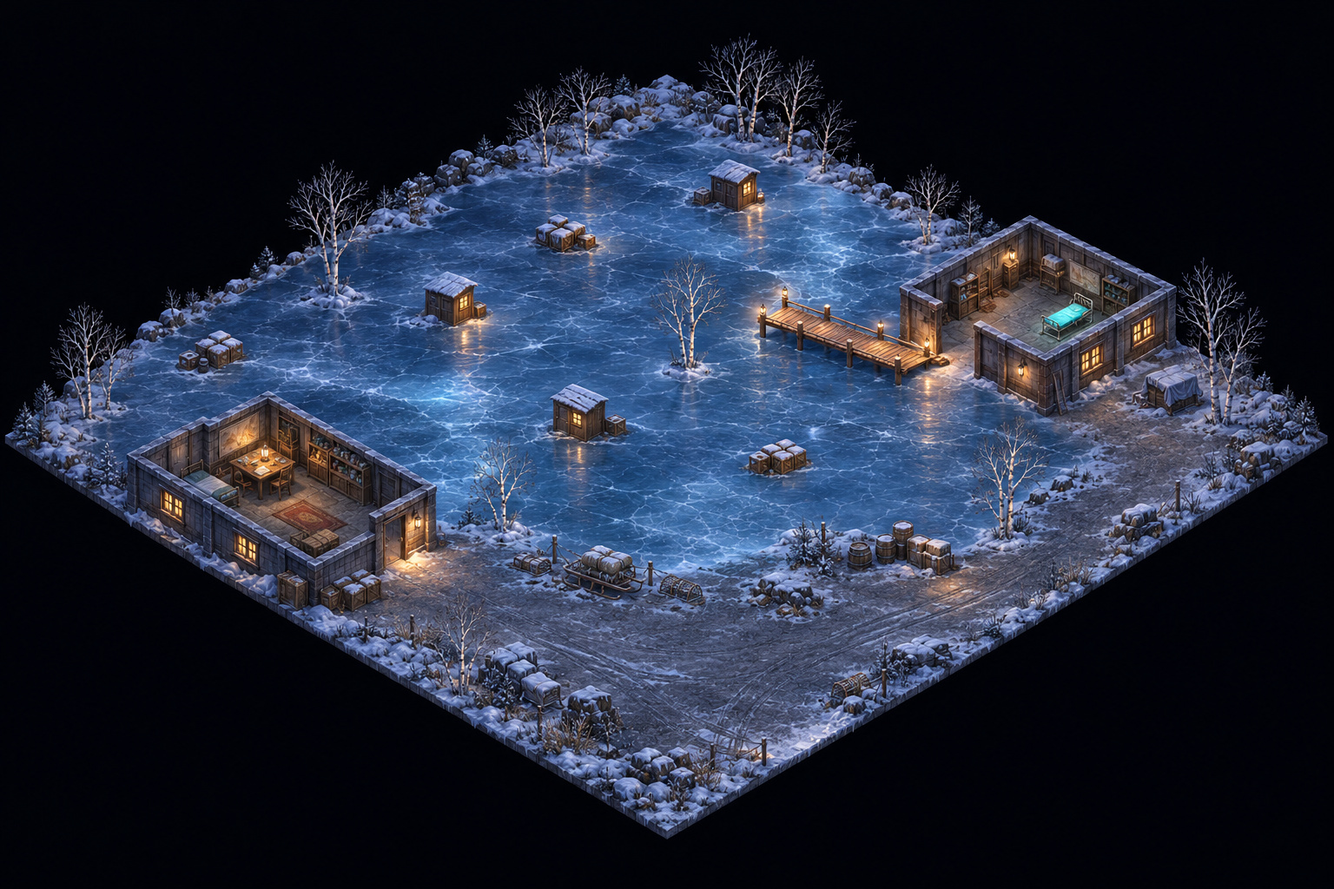
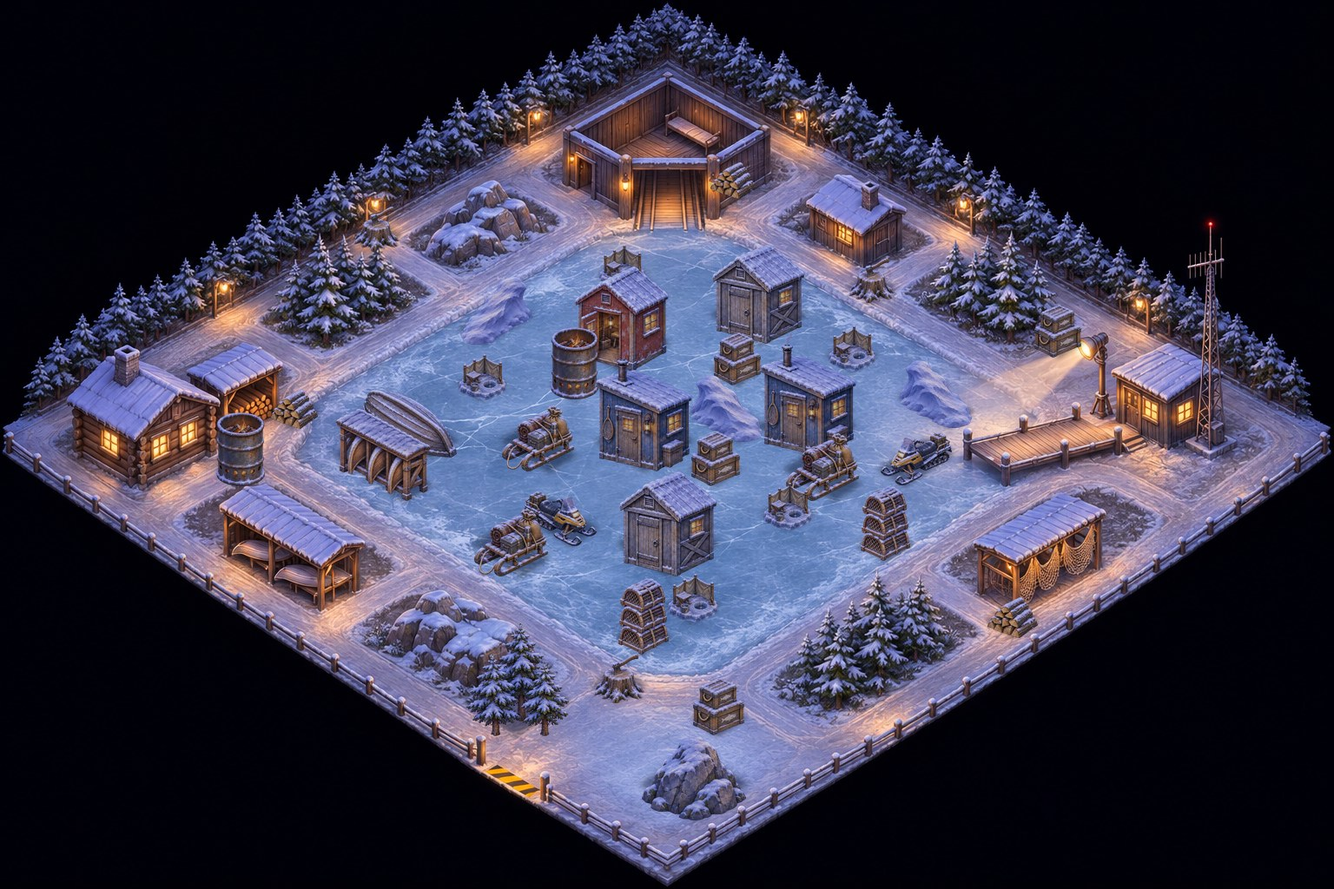
v0.29.0: Bloody Christmas stage 3 rebuilt on v3 design (frozen lake, ice huts, sniped antenna, escort)
Claude-Session: https://claude.ai/code/session_01YWSFXRBaK3zkDDX76dUHdx

diff --git a/public/index.html b/public/index.html
@@ -775,7 +775,7 @@ Object.keys(STORY).forEach(function(id){
     m.bc=['nokill','noinv','noload'][ci];m.story={id:id,ci:ci};SIDX[id].push(MIS.length);MIS.push(m);
   });
 });
-var VERSION='0.28.0';
+var VERSION='0.29.0';
 var PROG={c:{},s:{},b:{},end:{},g:{},n:{},pt:0,name:'',vol:1,all:false};
 try{var pj=JSON.parse(localStorage.getItem('s6prog')||'null');if(pj)for(var pk in pj)PROG[pk]=pj[pk];}catch(e){}
 function saveProg(){try{localStorage.setItem('s6prog',JSON.stringify(PROG));}catch(e){}}
@@ -914,10 +914,19 @@ var WINTER=[
    obj:[['santa','어머, 정말 터뜨렸네. 그럼 3분 줄게. 기차는 시간 맞춰 떠나거든.'],['glitch','브릭! 기관차가 움직여! 출구에 사람이 붙고 있어!',1],['brick','막히면 뚫으면 되지! 뒤로 붙어!',2]],
    end:[['glitch','잠깐만… 마켓에서 나온 종이랑 이 상자 걸 합치니까 풀려. 이거 암호가 아니라 사번이야.',2],['brick','사번? 누구 건데.',0],['glitch','…우리 거. 6과 사번이야. 언니 것도 있어.',1],['brick','뭐? 지난번에 팔린 명단은 절반이라며.',1],['glitch','응. 이게 나머지 절반이야. 그리고 대장에 다음 배송지가 적혀 있어. 22시 30분, 호수 보트하우스.',0]]},
   guards:[{wps:[[3,5]],tower:true,lamp:true,faces:[0.9,1.57],ft:6},{wps:[[27,3]],tower:true,lamp:true,faces:[2.4,1.57],ft:6},{wps:[[5,9],[5,21]]},{wps:[[9,16],[27,16]]},{wps:[[8,22],[27,22]]},{wps:[[27,19],[8,19]]},{wps:[[18,25],[27,25]]},{wps:[[9,3],[24,3]]},{wps:[[9,9],[27,9]]}]}},
- {t:'얼음 위의 선물',copy:'숨을 곳이<br>없는 밤.',pre:'22:30, 얼어붙은 호수. 상자를 본 증인이 건너편 보트하우스에 갇혀 있다. 얼음 위에는 오두막 몇 채뿐이다.',post:['증인은 제 발로 걸어 나왔다.', '그가 본 상자는 자정 미사가 열리는 대성당으로 갔다.'],bc:'onesnipe',img:'a_viper_5.jpg',par:240,env:{blizzard:[26,9]},tips:["<b>눈보라</b>: 26초마다 9초 동안 모두의 시야가 절반 아래로 줄어든다. 얼음 위는 그때 건넌다.", "응급 처치는 닥만 할 수 있다."],
-  m:{bg:'bgw3.jpg',sk:0.44,wake:90,opaque:'#B',hts:{'#': 46, 'B': 40, 'T': 60, 'C': 16, 'X': 16, 'R': 20},proj:[29.834972886, -36.000512789, 770.0, 15.971777748, 17.681319737, 95.0, -0.004011415, -0.003208789, 1.0],MAP:["RRRRRRRRRRR#...#....R", "R..........#..X#.CT.R", "R...B......#...#....R", "R...B......#.###....R", "R...................R", "R...................R", "R.CC................R", "R.................T.R", "R........T.........TR", "R............C....C.R", "R.BBC........C...CC.R", "R.......BB.......C..R", "R.......BB......C...R", "R................C..R", "R..............C....R", "RC........T..CC.....R", "R..#######..CC......R", "R..#................R", "R..#CC...#..........R", "RRR#CC.C.#C...RRRR.RR", "RRR#######RRRRRRRRRRR"],
-  ops:[{id:'viper',x:18,y:17},{id:'doc',x:18,y:16}],exit:[[18, 17], [18, 16], [17, 17], [17, 16]],objective:{x:14,y:1,use:[13,1],label:'증인',verb:'응급 처치',time:4,by:'doc'},
-  guards:[{wps:[[6,4],[6,13]]},{wps:[[10,6],[16,6]]},{wps:[[12,5]],faces:[1.57,2.4],ft:5},{wps:[[6,14],[10,14]]}]}},
+ {t:'얼음 위의 선물',copy:'숨을 곳이<br>없는 밤.',pre:'22:30, 얼어붙은 호수. 산타의 상자를 본 증인이 건너편 보트하우스에 갇혀 있다. 다쳤고, 오래 못 버틴다. 구급 가방은 얼음 위 붉은 오두막에 있다. 부두의 안테나를 끊으면 탐조등이 멈춘다. 얼음 위는 눈보라가 칠 때 건넌다.',post:['증인은 제 발로 걸어 나왔다.', '산타는 헬리오스 사람이 아니라 제6과 출신이다. 다음은 자정, 대성당.'],bc:'onesnipe',img:'a_viper_5.jpg',par:540,env:{blizzard:[26,9]},tips:["<b>눈보라</b>: 26초마다 9초 동안 모두의 시야가 절반 아래로 줄어든다. 얼음 위는 그때 오두막에서 오두막으로 건넌다.", "<b>탐조등</b>은 얼음 위를 훑는다. 오두막 뒤에만 그늘이 진다. 바이퍼가 <b>안테나</b>를 쏘면 탐조등이 한 방향으로 멈춘다.", "<b>구급 가방</b>은 얼음 한가운데 붉은 오두막에 있다. 닥이 챙겨야 증인을 치료할 수 있다.", "치료한 뒤에는 <b>증인이 닥을 따라온다</b>. 증인은 앉지 못해서 멀리서도 보인다."],
+  m:{bg:'bgw3.jpg',sk:0.3,zm:1.5,wake:120,opaque:'#HJX',hts:{'#': 40, 'H': 44, 'J': 34, 'T': 60, 'X': 20, 'C': 12},proj:[21.973036881, -26.865105384, 767.941922826, 13.27202256, 13.298825802, 44.96507548, -0.00318434, -0.003261162, 1.0],MAP:["##############################", "#............................#", "#.#####...HHHH.JJJJJ...HHHJJ.#", "#.#.X.#...HHHH.JJJJJC..HHHJJ.#", "#.#...#C..HHHH.JJJJJ..THHH...#", "#.............CJJJJJ.........#", "#.###........................#", "#............................#", "#...........##..C..JJ........#", "#.JJJJ......##..........JJJJ.#", "#.JJJJ..C............C..JJJJ.#", "#.JJJJ........C..##..C..JJJJ.#", "#.JJJJ....##.....##.....JJJJ.#", "#.........##...JJ..CC...JJJJ.#", "#C.....J...............J....C#", "#.JJJJ.J...C..##.C..C...JJJJ.#", "#.JJJJ........##........JJJJ.#", "#.JJJJ...C..............JJJJ.#", "#.JJJJ......CC....##....JJJJ.#", "#.JJJJ............##....JJJJ.#", "#.......CCC....CC....C.......#", "#..HHH.......................#", "#..HHHC..JJJ...CC....J.......#", "#HHHHH...................C...#", "#HHHHH...JJJJJ.JJJJJ..C......#", "#HHHHH.C.JJJJJ.JJJJJ......JJ.#", "#HHHHH...JJJJJ.JJJJJJJ....JJ.#", "#HHHHH...JJJJJ.JJJJJJJ.......#", "#............................#", "##############################"],
+  ops:[{id:'doc',x:21,y:28},{id:'viper',x:22,y:28}],exit:[[21, 28], [22, 28]],objective:{x:4,y:3,use:[4,4],label:'증인',verb:'응급 처치',time:4,by:'doc'},
+  lock:'맨손으로는 못 걷게 한다. 구급 가방과 안테나부터.',
+  subs:[{k:'ant',x:26,y:2,w:2,h:2,shoot:true,by:'viper',label:'안테나',verb:'안테나 저격',btn:'안테나',freeze:0,done:'무전이 끊겼다. 탐조등이 멈췄다.'},{k:'bag',x:10,y:12,w:2,h:2,use:[10,14],by:'doc',label:'구급 가방',verb:'구급 가방 챙기기',btn:'가방',time:2,done:'구급 가방을 챙겼다.'}],
+  evac:{note:'증인이 일어섰다.',escort:{x:4,y:3,img:'p_w3_witness.png',loud:true},posts:[{post:[8,8],face:-2.36}],gates:[{n:'들어온 숲길',cells:[[21,28],[22,28]],post:[21,26],face:-1.57,bar:['p_w1_bar_x.png',21,28,2,1]}]},
+  santa:{img:'p_w_santa.png',x:24.5,y:3.5,up:30,t:20},
+  dlg:{cast:{santa:'d_w_santa_3.webp',witness:['d_w3_witness_0.webp','d_w3_witness_1.webp']},
+   start:[['hq','22시 30분, 호수다. 산타의 상자를 직접 본 사람이 보트하우스에 갇혀 있다. 다쳤고, 오래 못 버틴다.'],['doc','다쳤다고? 그럼 얘기 끝났네. 내가 들어가서 걷게 만들어 올게.',1],['viper','얼음 위는 숨을 데가 없는데. 오두막 몇 채가 전부야. 건너다 걸리면 그대로 표적이지.',0],['doc','그래서 네가 있는 거잖아. 부두 안테나부터 끊어 줘. 무전만 죽이면 탐조등도 멍청해져.',0],['viper','한 발이면 돼. …근데 닥, 구급 가방은?',2],['doc','아, 그게 문제야. 급하게 나오느라 큰 가방을 못 챙겼어. 저 붉은 오두막에 하나 있을 거야.',2]],
+   mid:[['santa','그 사람은 왜 살리려고? 내 얘기가 그렇게 듣고 싶어?'],['viper','어머, 목소리 좋네. 직접 와서 들려주지 그래?',2],['santa','바이퍼구나. 넌 여전히 쏘기 전에 말이 많아.'],['viper','…나 알아?',1],['doc','바이퍼, 대꾸하지 마. 저 사람, 우리 의무 기록까지 읽은 말투야.',1]],
+   obj:[['witness','그 여자… 헬리오스 사람이 아니야. 걷는 거, 숨는 거, 전부 당신들이랑 똑같았어.',0],['doc','천천히 말해요. 우리랑 똑같다는 게 무슨 뜻이에요?',1],['witness','6과. 그 여자가 자기 입으로 그랬어. "난 거기서 나왔다"고.',1],['santa','입이 가벼운 사람은 오래 못 사는데. 조심히 데려가, 닥.']],
+   end:[['viper','6과 출신이라… 그럼 우리 선배네. 인사라도 할 걸 그랬나.',2],['doc','웃을 일이 아니야. 선배가 왜 헬리오스 물건을 나르고 있는 건데.',1],['viper','글쎄. 배신했거나, 배신한 척하거나. 둘 중 하나겠지.',0],['doc','증인이 그러는데, 세 번째 상자는 벌써 떠났대. 자정 미사가 열리는 대성당으로.',0]]},
+  guards:[{wps:[[22,4]],tower:true,lamp:true,faces:[1.9,2.5,3.0],ft:5},{wps:[[26,7]],faces:[1.57,2.6],ft:6},{wps:[[6,9],[6,21]]},{wps:[[8,6],[20,6]]},{wps:[[8,8]],faces:[0.78,1.9,-0.3],ft:5},{wps:[[12,21],[20,12]]},{wps:[[1,8],[1,20]]},{wps:[[23,10],[23,20]]}]}},
  {t:'자정 미사',copy:'헌금은<br>우리가 걷는다.',pre:'00:00, 대성당. 제단 옆 헌금함에 산타의 돈가방이 들어 있다. 추적기가 든 가방으로 바꿔 놓고 나온다.',post:['가방을 바꿔 놓았다.', '추적기는 사설 비행장에서 멈췄다.'],bc:'ghost',img:'a_mirage_5.jpg',par:200,env:{bell:[30,9]},tips:["<b>자정의 종</b>: 30초마다 9초 동안 종이 울린다. 그동안은 발소리도 총소리도 묻힌다.", "미라주는 성가대 복장으로 변장하면 걸어서 지나갈 수 있다."],
   m:{bg:'bgw4.jpg',sk:0.42,wake:90,opaque:'#B',hts:{'#': 40, 'B': 70, 'C': 16, 'X': 20},proj:[23.933742568, -34.503012953, 870.0, 11.289363576, 10.812195952, 240.0, -0.006565184, -0.006666533, 1.0],MAP:["....XCC.C.BB.###", ".......C...B...#", "..CC..C........#", "CC...C.........#", "C.......C.B....#", ".CC....CC.....B#", "C......C.......#", "....C....C.....#", "B..CC...CC...B.#", "B..C....C..C.B.#", ".....C....CC...#", "..B.CC....C....#", "....C.......C..#", "......C....CC.B#", ".....CC....C...#", "B....C..C....CC#", "B..B.B.CC...CC##", ".......C.....###", ".........C...###", "......B.CC##....", "#.......C####...", "############...."],
   ops:[{id:'mirage',x:13,y:20},{id:'raven',x:14,y:20}],exit:[[13, 20], [14, 20], [13, 21], [14, 21]],objective:{x:4,y:0,use:[4,1],label:'헌금함',verb:'바꿔치기',time:3},
@@ -1333,7 +1342,7 @@ function applySw(w){if(!w)return;S.bgk|=w.bit;(w.clr||[]).forEach(function(c){S.
 function subsDone(){if(!M.subs)return true;for(var i=0;i<M.subs.length;i++)if(!S.subs[i])return false;return true;}
 function subDone(i){
   if(S.subs[i])return;S.subs[i]=true;var sb=M.subs[i],n=0,j;for(j=0;j<M.subs.length;j++)if(S.subs[j])n++;
-  if(sb.dark)S.dark=sb.dark;applySw(sb.sw);snd('ok');say(sb.done||sb.label+' 완료');
+  if(sb.dark)S.dark=sb.dark;applySw(sb.sw);if(sb.freeze!=null){var fg=S.guards[sb.freeze];fg.faces=[fg.faces[fg.faces.length-1]];fg.fi=0;}snd('ok');say(sb.done||sb.label+' 완료');
   if(n===1&&M.dlg&&M.dlg.mid&&!S.dseen.mid){S.dseen.mid=1;S.dq='mid';}
 }
 function exits(){return M.evac?(S.ev?M.evac.gates[S.exitI].cells:[]):M.exit;}
@@ -1344,7 +1353,10 @@ function evacStart(){
     var best=null,bd=1e9;S.guards.forEach(function(g){if(g.down||g.fixed||g.boss||g.faces||used[g.id])return;var d=hyp(g.x-gt.post[0],g.y-gt.post[1]);if(d<bd){bd=d;best=g;}});
     if(best){used[best.id]=1;best.wps=[gt.post];best.faces=[gt.face,gt.face+0.7,gt.face-0.7];best.fi=0;best.ft=best.fd=2.5;best.state='patrol';best.rush=true;best.off=1.5;best.meter=0;best.path=findPath(fl(best.x),fl(best.y),gt.post[0],gt.post[1])||[];}
   });
-  wallCv=null;say((M.evac.note||'대피 방송.')+' 열린 곳은 '+G[S.exitI].n+'.');
+  (M.evac.posts||[]).forEach(function(pt){var best=null,bd=1e9;S.guards.forEach(function(g){if(g.down||g.fixed||g.boss||used[g.id])return;var d=hyp(g.x-pt.post[0],g.y-pt.post[1]);if(d<bd){bd=d;best=g;}});
+    if(best){used[best.id]=1;best.wps=[pt.post];best.faces=[pt.face,pt.face+0.8,pt.face-0.8];best.fi=0;best.ft=best.fd=2.5;best.state='patrol';best.rush=true;best.off=3;best.meter=0;best.path=findPath(fl(best.x),fl(best.y),pt.post[0],pt.post[1])||[];}});
+  if(M.evac.escort){S.hostage={x:M.evac.escort.x+0.5,y:M.evac.escort.y+0.5,free:true};S.trail=[];}
+  wallCv=null;say((M.evac.note||'대피 방송.')+(G.length>1?' 열린 곳은 '+G[S.exitI].n+'.':' '+G[S.exitI].n+'로 데리고 나간다.'));
   if(M.dlg&&M.dlg.obj&&!S.dseen.obj){S.dseen.obj=1;S.dq='obj';}
 }
 function followPath(o,speed,dt,turn){
@@ -1399,7 +1411,7 @@ function stepGuardSense(g,dt){
     else if(!g.fixed&&!o.disg&&o.mv&&!(o.crouch&&o.carry<0)&&d<1.5&&los(g.x,g.y,o.x,o.y,false))heard=o;
   }
   var h=S.hostage;
-  var HR=g.cam?CAMR:CRANGE*(g.tower?1.4:1);
+  var HR=g.cam?CAMR:(M.evac&&M.evac.escort&&M.evac.escort.loud?RANGE:CRANGE)*(g.tower?1.4:1);
   if(h&&h.free&&canSee(g,h.x,h.y,HR)){rate=1.6+(1-hyp(h.x-g.x,h.y-g.y)/HR)*5;if(!best||rate>best.rate)best={rate:rate,x:h.x,y:h.y,why:'데리고 나오던 사람이 눈에 띄었다. 거기서 끝났다.'};}
   if(best){g.meter+=best.rate*DF.m*dt;g.seen={x:best.x,y:best.y};if(g.meter>=1){g.meter=1;fail(best.why);}}
   else if(heard){
@@ -1430,7 +1442,7 @@ function startAction(o,a){
   else if(a.type==='stance'){o.crouch=!o.crouch;if(o.crouch)o.disg=false;o.cur=null;}
   else if(a.type==='disg'){toggleDisg(o);o.cur=null;}
   else if(a.type==='sab'){if(!subsDone()){say(M.lock||'아직 잠겨 있다.');o.cur=null;return;}var u=M.objective.use;o.path=findPath(fl(o.x),fl(o.y),u[0],u[1])||[];a.t=M.objective.time;}
-  else if(a.type==='sub'){var sb=M.subs[a.i];if(!sb.use||S.subs[a.i]){o.cur=null;return;}o.path=findPath(fl(o.x),fl(o.y),sb.use[0],sb.use[1])||[];a.t=sb.time;}
+  else if(a.type==='sub'){var sb=M.subs[a.i];if(S.subs[a.i]||(sb.by&&sb.by!==o.id)){if(sb.by&&sb.by!==o.id)say(sb.label+'은 '+OPD[sb.by].n+'만 할 수 있다');o.cur=null;return;}if(sb.shoot){o.path=[];a.t=AIM;}else{o.path=findPath(fl(o.x),fl(o.y),sb.use[0],sb.use[1])||[];a.t=sb.time;}}
   else if(a.type==='hack'){a.t=1.5;o.path=[];}
   else if(a.type==='lure'){a.t=0.8;o.path=[];}
   else if(a.type==='breach'){a.t=1.2;o.path=[];}
@@ -1488,6 +1500,12 @@ function stepOp(o,dt){
       if(fl(o.x)!==u[0]||fl(o.y)!==u[1]){o.cur=null;say('거긴 길이 없다.');}
       else{o.ang=Math.atan2(M.objective.y+0.5-o.y,M.objective.x+0.5-o.x);o.fx='plant';o.fxt=0.2;a.t-=dt;if(a.t<=0){S.objDone=true;o.cur=null;say(M.objective.label+' '+M.objective.verb+' 완료');snd('ok');}}
     }
+  }else if(a&&a.type==='sub'&&M.subs[a.i].shoot){
+    var sh=M.subs[a.i];tx=sh.x+(sh.w||1)/2;ty=sh.y+(sh.h||1)/2;
+    if(o.ammo<=0){o.cur=null;o.aim=0;say('탄창이 비었다.');}
+    else if(hyp(tx-o.x,ty-o.y)>SNIPE||!los(o.x,o.y,tx,ty,true))approach(o,a,tx,ty,SNIPE-0.6,true,true,dt);
+    else{o.path=[];o.ang=Math.atan2(ty-o.y,tx-o.x);a.t-=dt;o.fx='plant';o.fxt=0.2;
+      if(a.t<=0){o.ammo--;S.shots.push({x0:o.x,y0:o.y,x1:tx,y1:ty,e:true,t:0.3});S.noise.push({x:o.x,y:o.y,t:0.6,r:2});snd('sup');alertNear(o.x,o.y,2,o.x,o.y,null);o.cur=null;subDone(a.i);}}
   }else if(a&&a.type==='sub'){
     if(!o.path.length){
       var sb=M.subs[a.i],su=sb.use;
@@ -1535,7 +1553,7 @@ function envStep(){
     if(e.bell){b=envPhase(e.bell);if(b>=0){q=true;hot=true;t='자정의 종 · 소리가 묻힌다 '+Math.ceil(e.bell[1]-b);}else t='다음 종까지 '+Math.ceil(envNext(e.bell));}
     if(e.limit){var left=e.limit-S.t;if(!S.objDone){t='이륙까지 '+mmss(Math.max(0,Math.ceil(left)));hot=left<60;if(left<=0)fail('전용기가 떴다. 화물은 하늘에 있다.');}else t='';}
   }
-  if(S.dark)k*=S.dark;if(S.ev){t=(M.evac.limit?'남은 시간 '+mmss(Math.max(0,Math.ceil(M.evac.limit-(S.t-S.evT))))+' · ':'대피 방송 · ')+'열린 곳은 '+M.evac.gates[S.exitI].n;hot=true;if(M.evac.limit&&S.t-S.evT>=M.evac.limit)fail(M.evac.late||'너무 늦었다.');}else if(S.dark&&!t)t='조명 OFF · 경비 시야 감소';
+  if(S.dark)k*=S.dark;if(S.ev){if(M.evac.gates.length>1||M.evac.limit){t=(M.evac.limit?'남은 시간 '+mmss(Math.max(0,Math.ceil(M.evac.limit-(S.t-S.evT))))+' · ':'대피 방송 · ')+'열린 곳은 '+M.evac.gates[S.exitI].n;hot=true;}if(M.evac.limit&&S.t-S.evT>=M.evac.limit)fail(M.evac.late||'너무 늦었다.');}else if(S.dark&&!t)t='조명 OFF · 경비 시야 감소';
   if(k!==ENV.k){RANGE=6.5*DF.r*k;CRANGE=3.6*DF.r*k;}
   ENV.k=k;ENV.quiet=q;ENV.txt=t;ENV.hot=hot;
 }
@@ -1553,7 +1571,7 @@ function update(dt){
       var left=2.6*dt;
       while(left>0&&S.trail.length>1){var p=S.trail[0],dx=p.x-h.x,dy=p.y-h.y,d=hyp(dx,dy);
         if(d<=left){h.x=p.x;h.y=p.y;S.trail.shift();left-=d;}else{h.x+=dx/d*left;h.y+=dy/d*left;left=0;}}
-      if(inExit(r)&&hyp(h.x-r.x,h.y-r.y)<2.2)S.over={win:true};
+      if(inExit(r)&&hyp(h.x-r.x,h.y-r.y)<2.2&&(!M.evac||S.ops.every(inExit)))S.over={win:true};
     }
   }else if(S.objDone&&M.evac&&!S.ev){evacStart();
   }else if(S.objDone){var all=true;for(i=0;i<S.ops.length;i++)if(!inExit(S.ops[i]))all=false;if(all)S.over={win:true};}
@@ -1720,7 +1738,7 @@ function draw(){
   S.ops.forEach(function(o,j){var c=opCol(o);glow(c,10);ring(o.x,o.y,j===S.act?0.42:0.34);ctx.strokeStyle=c;ctx.lineWidth=j===S.act?3:2;if(o.disg)ctx.setLineDash([5,4]);ctx.stroke();ctx.setLineDash([]);noGlow();});
   var h=S.hostage;if(h){glow('#f0c14b',8);ring(h.x,h.y,0.34);ctx.strokeStyle='#f0c14b';ctx.lineWidth=2;ctx.stroke();noGlow();}
   if(M.objective&&!S.objDone){glow('#5df0e0',10);ring(M.objective.x+0.5,M.objective.y+0.5,0.6);ctx.strokeStyle='#5df0e0';ctx.lineWidth=2;ctx.stroke();noGlow();}
-  if(M.subs)M.subs.forEach(function(sb,si){if(!sb.use||S.subs[si])return;glow('#ffd27a',10);ring(sb.x+(sb.w||1)/2,sb.y+(sb.h||1)/2,0.9);ctx.strokeStyle='#ffd27a';ctx.lineWidth=2;ctx.stroke();noGlow();});
+  if(M.subs)M.subs.forEach(function(sb,si){if(!(sb.use||sb.shoot)||S.subs[si])return;glow('#ffd27a',10);ring(sb.x+(sb.w||1)/2,sb.y+(sb.h||1)/2,0.9);ctx.strokeStyle='#ffd27a';ctx.lineWidth=2;ctx.stroke();noGlow();});
   if(wallCv)ctx.drawImage(wallCv,0,0);
   if(S.ev)M.evac.gates.forEach(function(gt,j){if(j!==S.exitI)propDraw(gt.bar[0],gt.bar[1],gt.bar[2],gt.bar[3],gt.bar[4],0);});
   /* 캐릭터 */
@@ -1732,7 +1750,7 @@ function draw(){
     if(g.down){if(!carried(g.id))ents.push({x:g.x,y:g.y,f:function(f,a){spr('misc.png',0,g.ang,f,0,a,'#59616b');}});return;}
     ents.push({x:g.x,y:g.y,f:function(f,a){var al=g.state==='investigate'||g.meter>0.02,mv=g.path.length>0;if(a===1)shadow(f);spr('chars.png',al?3:2,g.ang,f,mv?Math.abs(Math.sin(tt*9+g.id))*2.5:0,a,'#a9c8ff');}});
   });
-  if(h)ents.push({x:h.x,y:h.y,f:function(f,a){if(a===1)shadow(f);var hi=IM['hostage.png'];ctx.globalAlpha=a;if(ok(hi))ctx.drawImage(hi,f[0]-30,f[1]-44,60,60);else{ctx.beginPath();ctx.arc(f[0],f[1]-16,12,0,6.2832);ctx.fillStyle='#f0c14b';ctx.fill();}ctx.globalAlpha=1;}});
+  if(h)ents.push({x:h.x,y:h.y,f:function(f,a){if(a===1)shadow(f);if(M.evac&&M.evac.escort){loadImg(M.evac.escort.img);var wi=IM[M.evac.escort.img];ctx.globalAlpha=a;if(ok(wi))ctx.drawImage(wi,f[0]-12,f[1]-42,24,44);ctx.globalAlpha=1;return;}var hi=IM['hostage.png'];ctx.globalAlpha=a;if(ok(hi))ctx.drawImage(hi,f[0]-30,f[1]-44,60,60);else{ctx.beginPath();ctx.arc(f[0],f[1]-16,12,0,6.2832);ctx.fillStyle='#f0c14b';ctx.fill();}ctx.globalAlpha=1;}});
   S.ops.forEach(function(o){ents.push({x:o.x,y:o.y+0.01,f:function(f,a){
     var mv=o.path.length>0,run=o.run&&!o.crouch&&o.carry<0,low=o.crouch&&o.carry<0,bob=mv?Math.abs(Math.sin(tt*(run?16:low?7:11)))*(run?4:2.5):0;if(a===1)shadow(f);
     spr('s_'+o.id+'.png',opRow(o),o.ang,f,bob,a,opCol(o));}});});
@@ -1768,12 +1786,12 @@ function draw(){
   });
   if(h&&!h.free){p=PF(h.x,h.y);label('인질',p[0],p[1]-58,16,'#f0c14b');}
   if(M.objective&&!S.objDone){p=PF(M.objective.x+0.5,M.objective.y+0.5);label(M.objective.label+(subsDone()?'':' · 잠김'),p[0],p[1]-56,14,subsDone()?'#5df0e0':'#8a96a3');}
-  if(M.subs)M.subs.forEach(function(sb,si){if(!sb.use||S.subs[si])return;p=PF(sb.x+(sb.w||1)/2,sb.y+(sb.h||1)/2);label(sb.label,p[0],p[1]-44,13,'#ffd27a');});
+  if(M.subs)M.subs.forEach(function(sb,si){if(!(sb.use||sb.shoot)||S.subs[si])return;p=PF(sb.x+(sb.w||1)/2,sb.y+(sb.h||1)/2);label(sb.label,p[0],p[1]-44,13,'#ffd27a');});
   if(M.evac){var EX=exits();if(EX.length){p=PF((EX[0][0]+EX[1][0])/2+0.5,(EX[0][1]+EX[1][1])/2+0.5);label('탈출',p[0],p[1],14,'#5dff7a');}}
   else{p=PF(M.exit[0][0]+(M.exit.length>1?(MI===1?1:2):0.5),M.exit[0][1]+(M.exit.length>1&&MI===1?1:0.5));label('탈출',p[0],p[1],14,'#5dff7a');}
   S.ops.forEach(function(o){var q=PF(o.x,o.y),a=o.cur;if(!a||o.path.length)return;
     if(a.type==='sab')label(M.objective.verb+' 중 '+Math.ceil(a.t),q[0],q[1]-84,14,'#5df0e0');
-    else if(a.type==='sub')label(M.subs[a.i].verb+' 중 '+Math.ceil(a.t),q[0],q[1]-84,14,'#ffd27a');
+    else if(a.type==='sub')label(M.subs[a.i].shoot?'조준':M.subs[a.i].verb+' 중 '+Math.ceil(a.t),q[0],q[1]-84,14,'#ffd27a');
     else if(a.type==='hack')label('해킹 중',q[0],q[1]-84,14,'#3fe0e0');
     else if(a.type==='breach')label('돌파 중',q[0],q[1]-84,14,'#ff8a2a');});
   S.ops.forEach(function(o){if(o.disg){var q=PF(o.x,o.y);label('변장',q[0],q[1]-80,12,'#e8c46a');}});
@@ -1838,7 +1856,7 @@ function ui(){
     else h+=ab(m,m,ACT[m][0],m==='pistol'?A.pistol:m==='snipe'?A.ammo:m==='dart'?A.dart:null);
   });
   h+=ib('stance',A.crouch?'up':'down',A.crouch?'서기':'앉기');
-  if(M.subs)M.subs.forEach(function(sb,si){if(sb.use&&!S.subs[si])h+='<button class="ab" data-a="sub" data-v="'+si+'">'+num()+ic('sab')+'<span>'+(sb.btn||sb.verb)+'</span></button>';});
+  if(M.subs)M.subs.forEach(function(sb,si){if((sb.use||sb.shoot)&&!S.subs[si]&&(!sb.by||sb.by===A.id))h+='<button class="ab" data-a="sub" data-v="'+si+'">'+num()+ic('sab')+'<span>'+(sb.btn||sb.verb)+'</span></button>';});
   if(M.objective&&!S.objDone&&(!M.objective.by||M.objective.by===A.id))h+=ib('sab','sab',M.objective.verb);
   $('acts').innerHTML=h;
   var a=ACT[A.mode]||ACT.move;
@@ -1880,8 +1898,8 @@ function nextScene(){
 }
 /* 대화 화면: 왼쪽 상대, 오른쪽 요원. lines=[[누구,대사],...] */
 var DPORT={raven:1,viper:1,glitch:1,brick:1,mirage:1,doc:1}; /* 대화용 그림 d_<요원>_<0 기본|1 긴장|2 여유>.webp. 대사 셋째 칸이 표정 */
-var DLGON=false,DLQ=[],DLD=null,DLGM=-1,DCAST={hq:{n:'지휘관',c:'#c9d2dc'},santa:{n:'산타',c:'#e0364f',side:'l'}};
-function dlgWho(k,e){var d=DCAST[k]||{},o=OPD[k],cast=(M.dlg&&M.dlg.cast)||{};return {n:d.n||(o?o.n:k),c:d.c||(o?o.col:'#fff'),side:d.side||(o?'r':''),img:cast[k]||(DPORT[k]?'d_'+k+'_'+(e||0)+'.webp':''),card:false};}
+var DLGON=false,DLQ=[],DLD=null,DLGM=-1,DCAST={hq:{n:'지휘관',c:'#c9d2dc'},santa:{n:'산타',c:'#e0364f',side:'l'},witness:{n:'증인',c:'#ff9a3c',side:'l'}};
+function dlgWho(k,e){var d=DCAST[k]||{},o=OPD[k],cast=(M.dlg&&M.dlg.cast)||{};return {n:d.n||(o?o.n:k),c:d.c||(o?o.col:'#fff'),side:d.side||(o?'r':''),img:(cast[k]&&cast[k].pop?cast[k][e||0]:cast[k])||(DPORT[k]?'d_'+k+'_'+(e||0)+'.webp':''),card:false};}
 function dlg(lines,done){
   DLQ=lines.slice();DLD=done||null;DLGON=true;var L=$('dgl'),R=$('dgr'),seen={l:'',r:''};
   lines.forEach(function(x){var w=dlgWho(x[0],x[2]);if(w.img)loadImg(w.img);if(w.side&&!seen[w.side])seen[w.side]=x[0];});
@@ -2105,7 +2123,7 @@ function onTap(px,py){
       if(!pm){say(gh.cam?'카메라는 해킹하거나 쏴야 한다 — 아래에서 행동을 고르세요':'아래에서 공격 행동을 고르세요');return;}
       md=pm;
     }else if(bh&&acts.indexOf('carry')>=0){md='carry';}
-    else if(M.subs&&M.subs.some(function(sb,si){if(sb.use&&!S.subs[si]&&cx>=sb.x&&cx<sb.x+(sb.w||1)&&cy>=sb.y&&cy<sb.y+(sb.h||1)){issue(A,{type:'sub',i:si});return true;}return false;})){return;}
+    else if(M.subs&&M.subs.some(function(sb,si){if((sb.use||sb.shoot)&&!S.subs[si]&&cx>=sb.x&&cx<sb.x+(sb.w||1)&&cy>=sb.y&&cy<sb.y+(sb.h||1)){issue(A,{type:'sub',i:si});return true;}return false;})){return;}
     else if(M.objective&&!S.objDone&&cx===M.objective.x&&cy===M.objective.y){
       if(M.objective.by&&M.objective.by!==A.id){say(M.objective.verb+'는 '+OPD[M.objective.by].n+'만 할 수 있다');return;}
       issue(A,{type:'sab'});return;

diff --git a/tools/check_w1.js b/tools/check_w1.js
@@ -4,14 +4,14 @@ const noop=new Proxy(function(){},{get:(t,k)=>k==='length'?0:noop,apply:()=>noop
 const el=()=>({textContent:'',className:'',innerHTML:'',src:'',style:{setProperty(){}},appendChild(){},addEventListener(){},setAttribute(){},getAttribute(){return ''},getContext:()=>noop,getBoundingClientRect:()=>({width:390,height:640,left:0,top:0})});
 const els={};global.document={getElementById:id=>els[id]||(els[id]=el()),createElement:el};global.window={devicePixelRatio:1,addEventListener(){}};global.requestAnimationFrame=()=>{};
 (0,eval)(js);if(process.env.DIFF)setDiff(+process.env.DIFF);
-const MI_=WIDX[(+process.env.STAGE||1)-1],DT=1/32,KS=0.125;let PAD=+(process.env.PAD||0.3);
+const MI_=WIDX[(+process.env.STAGE||1)-1],DT=1/32,KS=0.125;let PAD=+(process.env.PAD||0.3),LOUD=false;
 function init(){loadMission(MI_);restart();S.ops.forEach(o=>o.crouch=true);}
 function snaps(sec){const real=JSON.stringify(S),R0=RANGE,C0=CRANGE,E0=JSON.stringify(ENV);S.ops.forEach(o=>{o.x=-50;o.y=-50;o.path=[];o.queue=[];o.cur=null;});const out=[];const n=Math.round(sec/KS);
   for(let k=0;k<n;k++){out.push({R:RANGE,C:CRANGE,g:S.guards.filter(g=>!g.down).map(g=>({x:g.x,y:g.y,ang:g.ang,tower:g.tower,cam:g.cam,boss:g.boss}))});for(let i=0;i<4;i++)update(DT);}
   S=JSON.parse(real);RANGE=R0;CRANGE=C0;Object.assign(ENV,JSON.parse(E0));return out;}
 function search(snap,sc,goals,dwell,minT){minT=minT||0; // sc: 시작 칸 index, goals:Set, dwell: 머무는 초
   const N=COLS*ROWS,NK=snap.length,NL=Math.floor(NK/2),memo=new Int8Array(N*NK).fill(-1),F0=FOV;
-  const see=(x,y,k)=>{const s=snap[k];FOV=F0*1.15;let r=false;for(const g of s.g)if(canSee(g,x,y,(g.cam?CAMR:s.C*(g.tower?1.4:1))+PAD)){r=true;break;}FOV=F0;return r;};
+  const see=(x,y,k)=>{const s=snap[k];FOV=F0*1.15;let r=false;for(const g of s.g)if(canSee(g,x,y,(g.cam?CAMR:(LOUD?s.R:s.C)*(g.tower?1.4:1))+PAD)){r=true;break;}FOV=F0;return r;};
   const safe1=(c,k)=>{if(k>=NK)return false;let v=memo[c*NK+k];if(v<0){v=see(c%COLS+.5,Math.floor(c/COLS)+.5,k)?0:1;memo[c*NK+k]=v;}return v===1;};
   const safe=(c,k0,k1)=>{for(let k=k0;k<=k1;k++)if(!safe1(c,k))return false;return true;};
   const mid=(x,y,k0,k1)=>{for(let k=k0;k<=k1;k++){if(k>=NK||see(x,y,k))return false;}return true;};
@@ -38,10 +38,10 @@ function go(op,goals,dwell,horizon,act){ // 실제 엔진에서 이동
 const cellSet=(a)=>new Set(a.map(c=>c[1]*COLS+c[0]));
 const mode=process.argv[2]||'all';let okAll=true;const say_=(n,ok,x)=>{console.log((ok?'OK   ':'FAIL ')+n+(x?'  '+x:''));if(!ok)okAll=false;};
 if(mode==='idle'||mode==='all'){init();let t=0;while(S.t<60&&!S.over)update(DT);say_('idle 60s',!S.over,S.over?S.over.why:'');}
-if(mode==='gen'||mode==='all'){init();M.subs.forEach((sb,si)=>{if(!sb.use)return;for(const op of [0,1]){let ok=false;for(const pd of [0.5,0.3,0.15]){if(ok)break;PAD=pd;init();ok=go(op,cellSet([sb.use]),sb.time+0.6,200,{type:'sub',i:si})&&S.subs[si];}say_(sb.label+' op'+op,ok,'t='+S.t.toFixed(1)+(S.over?' '+S.over.why:''));}});}
+if(mode==='gen'||mode==='all'){init();M.subs.forEach((sb,si)=>{if(!sb.use&&!sb.shoot)return;for(const op of [0,1]){if(sb.by&&M.ops[op].id!==sb.by)continue;let ok=false;for(const pd of [0.5,0.3,0.15]){if(ok)break;PAD=pd;init();let goals=[sb.use];if(sb.shoot){goals=[];const tx=sb.x+(sb.w||1)/2,ty=sb.y+(sb.h||1)/2;for(let y=0;y<ROWS;y++)for(let x=0;x<COLS;x++)if(!blocked(x,y)&&Math.hypot(x+.5-tx,y+.5-ty)<=SNIPE-0.7&&los(x+.5,y+.5,tx,ty,true))goals.push([x,y]);}ok=go(op,cellSet(goals),(sb.shoot?AIM:sb.time)+0.6,200,{type:'sub',i:si})&&S.subs[si];}say_(sb.label+' op'+op,ok,'t='+S.t.toFixed(1)+(S.over?' '+S.over.why:''));}});}
 if(mode==='tree'||mode==='all'){init();const NG=M.evac.gates.length;for(let gate=0;gate<NG;gate++){let won=false,t1=0;for(const pd of [0.5,0.3,0.7,0.15]){if(won)break;PAD=pd;init();M.evac.fix=gate;M.subs.forEach((sb,si)=>subDone(si));S.dq=null;S.msg=null;
   let ok=go(0,cellSet([M.objective.use]),M.objective.time+0.6,200,{type:'sab'});t1=S.t;
-  if(ok&&S.objDone){for(let n=0;n<4;n++)update(DT);const E=cellSet(M.evac.gates[gate].cells);const snap=snaps(150);let r0=search(snap,ci(S.ops[0]),E,1),r1=search(snap,ci(S.ops[1]),E,1);if(r0&&r1){if(r0.t<r1.t-0.5)r0=search(snap,ci(S.ops[0]),E,1,r1.t-0.25);else if(r1.t<r0.t-0.5)r1=search(snap,ci(S.ops[1]),E,1,r0.t-0.25);}
+  if(ok&&S.objDone){for(let n=0;n<4;n++)update(DT);const E=cellSet(M.evac.gates[gate].cells);const snap=snaps(170);LOUD=!!(M.evac.escort&&M.evac.escort.loud);let r0=search(snap,ci(S.ops[0]),E,1);LOUD=false;let r1=search(snap,ci(S.ops[1]),E,1);if(r0&&r1){if(r0.t<r1.t-0.5){LOUD=!!(M.evac.escort&&M.evac.escort.loud);r0=search(snap,ci(S.ops[0]),E,1,r1.t-0.25);LOUD=false;}else if(r1.t<r0.t-0.5)r1=search(snap,ci(S.ops[1]),E,1,r0.t-0.25);}
     if(r0&&r1){const st=r0.steps.map(x=>({...x,op:0})).concat(r1.steps.map(x=>({...x,op:1}))).sort((a,b)=>a.t-b.t);const t0=S.t;let i=0;const end=t0+Math.max(r0.t,r1.t)+3;
       while(S.t<end&&!S.over){while(i<st.length&&t0+st[i].t<=S.t+1e-6){const q=st[i++];S.ops[q.op].queue=[{type:'move',x:q.x,y:q.y}];S.ops[q.op].cur=null;}update(DT);}}
     else console.log('   경로 없음',!!r0,!!r1);}

diff --git a/tools/map/trace_winter_v3/s3/patch.py b/tools/map/trace_winter_v3/s3/patch.py
@@ -1,0 +1,56 @@
+# -*- coding: utf-8 -*-
+import io,json
+p='public/index.html'; s=io.open(p,encoding='utf8').read()
+def rep(a,b,n=1):
+    global s
+    assert s.count(a)==n,(a[:60],s.count(a)); s=s.replace(a,b)
+D=json.load(open('/tmp/s3/map.json'))
+a=s.index(" {t:'얼음 위의 선물'"); b=s.index(" {t:'자정 미사'")
+W3=u""" {t:'얼음 위의 선물',copy:'숨을 곳이<br>없는 밤.',pre:'22:30, 얼어붙은 호수. 산타의 상자를 본 증인이 건너편 보트하우스에 갇혀 있다. 다쳤고, 오래 못 버틴다. 구급 가방은 얼음 위 붉은 오두막에 있다. 부두의 안테나를 끊으면 탐조등이 멈춘다. 얼음 위는 눈보라가 칠 때 건넌다.',post:['증인은 제 발로 걸어 나왔다.', '산타는 헬리오스 사람이 아니라 제6과 출신이다. 다음은 자정, 대성당.'],bc:'onesnipe',img:'a_viper_5.jpg',par:540,env:{blizzard:[26,9]},tips:["<b>눈보라</b>: 26초마다 9초 동안 모두의 시야가 절반 아래로 줄어든다. 얼음 위는 그때 오두막에서 오두막으로 건넌다.", "<b>탐조등</b>은 얼음 위를 훑는다. 오두막 뒤에만 그늘이 진다. 바이퍼가 <b>안테나</b>를 쏘면 탐조등이 한 방향으로 멈춘다.", "<b>구급 가방</b>은 얼음 한가운데 붉은 오두막에 있다. 닥이 챙겨야 증인을 치료할 수 있다.", "치료한 뒤에는 <b>증인이 닥을 따라온다</b>. 증인은 앉지 못해서 멀리서도 보인다."],
+  m:{bg:'bgw3.jpg',sk:0.3,zm:1.5,wake:120,opaque:'#HJX',hts:{'#': 40, 'H': 44, 'J': 34, 'T': 60, 'X': 20, 'C': 12},proj:%s,MAP:%s,
+  ops:[{id:'doc',x:21,y:28},{id:'viper',x:22,y:28}],exit:[[21, 28], [22, 28]],objective:{x:4,y:3,use:[4,4],label:'증인',verb:'응급 처치',time:4,by:'doc'},
+  lock:'맨손으로는 못 걷게 한다. 구급 가방과 안테나부터.',
+  subs:[{k:'ant',x:26,y:2,w:2,h:2,shoot:true,by:'viper',label:'안테나',verb:'안테나 저격',btn:'안테나',freeze:0,done:'무전이 끊겼다. 탐조등이 멈췄다.'},{k:'bag',x:10,y:12,w:2,h:2,use:[10,14],by:'doc',label:'구급 가방',verb:'구급 가방 챙기기',btn:'가방',time:2,done:'구급 가방을 챙겼다.'}],
+  evac:{note:'증인이 일어섰다.',escort:{x:4,y:3,img:'p_w3_witness.png',loud:true},posts:[{post:[8,8],face:-2.36}],gates:[{n:'들어온 숲길',cells:[[21,28],[22,28]],post:[21,26],face:-1.57,bar:['p_w1_bar_x.png',21,28,2,1]}]},
+  santa:{img:'p_w_santa.png',x:24.5,y:3.5,up:30,t:20},
+  dlg:{cast:{santa:'d_w_santa_3.webp',witness:['d_w3_witness_0.webp','d_w3_witness_1.webp']},
+   start:[['hq','22시 30분, 호수다. 산타의 상자를 직접 본 사람이 보트하우스에 갇혀 있다. 다쳤고, 오래 못 버틴다.'],['doc','다쳤다고? 그럼 얘기 끝났네. 내가 들어가서 걷게 만들어 올게.',1],['viper','얼음 위는 숨을 데가 없는데. 오두막 몇 채가 전부야. 건너다 걸리면 그대로 표적이지.',0],['doc','그래서 네가 있는 거잖아. 부두 안테나부터 끊어 줘. 무전만 죽이면 탐조등도 멍청해져.',0],['viper','한 발이면 돼. …근데 닥, 구급 가방은?',2],['doc','아, 그게 문제야. 급하게 나오느라 큰 가방을 못 챙겼어. 저 붉은 오두막에 하나 있을 거야.',2]],
+   mid:[['santa','그 사람은 왜 살리려고? 내 얘기가 그렇게 듣고 싶어?'],['viper','어머, 목소리 좋네. 직접 와서 들려주지 그래?',2],['santa','바이퍼구나. 넌 여전히 쏘기 전에 말이 많아.'],['viper','…나 알아?',1],['doc','바이퍼, 대꾸하지 마. 저 사람, 우리 의무 기록까지 읽은 말투야.',1]],
+   obj:[['witness','그 여자… 헬리오스 사람이 아니야. 걷는 거, 숨는 거, 전부 당신들이랑 똑같았어.',0],['doc','천천히 말해요. 우리랑 똑같다는 게 무슨 뜻이에요?',1],['witness','6과. 그 여자가 자기 입으로 그랬어. "난 거기서 나왔다"고.',1],['santa','입이 가벼운 사람은 오래 못 사는데. 조심히 데려가, 닥.']],
+   end:[['viper','6과 출신이라… 그럼 우리 선배네. 인사라도 할 걸 그랬나.',2],['doc','웃을 일이 아니야. 선배가 왜 헬리오스 물건을 나르고 있는 건데.',1],['viper','글쎄. 배신했거나, 배신한 척하거나. 둘 중 하나겠지.',0],['doc','증인이 그러는데, 세 번째 상자는 벌써 떠났대. 자정 미사가 열리는 대성당으로.',0]]},
+  guards:[{wps:[[22,4]],tower:true,lamp:true,faces:[1.9,2.5,3.0],ft:5},{wps:[[26,7]],faces:[1.57,2.6],ft:6},{wps:[[6,9],[6,21]]},{wps:[[8,6],[20,6]]},{wps:[[8,8]],faces:[0.78,1.9,-0.3],ft:5},{wps:[[12,21],[20,12]]},{wps:[[1,8],[1,20]]},{wps:[[23,10],[23,20]]}]}},
+""" % (json.dumps(D['proj']),json.dumps(D['MAP']))
+s=s[:a]+W3+s[b:]
+# 저격으로 끝내는 중간 목표
+rep("  else if(a.type==='sub'){var sb=M.subs[a.i];if(!sb.use||S.subs[a.i]){o.cur=null;return;}o.path=findPath(fl(o.x),fl(o.y),sb.use[0],sb.use[1])||[];a.t=sb.time;}",
+    "  else if(a.type==='sub'){var sb=M.subs[a.i];if(S.subs[a.i]||(sb.by&&sb.by!==o.id)){if(sb.by&&sb.by!==o.id)say(sb.label+'은 '+OPD[sb.by].n+'만 할 수 있다');o.cur=null;return;}if(sb.shoot){o.path=[];a.t=AIM;}else{o.path=findPath(fl(o.x),fl(o.y),sb.use[0],sb.use[1])||[];a.t=sb.time;}}")
+rep("  }else if(a&&a.type==='sub'){\n    if(!o.path.length){",
+"""  }else if(a&&a.type==='sub'&&M.subs[a.i].shoot){
+    var sh=M.subs[a.i];tx=sh.x+(sh.w||1)/2;ty=sh.y+(sh.h||1)/2;
+    if(o.ammo<=0){o.cur=null;o.aim=0;say('탄창이 비었다.');}
+    else if(hyp(tx-o.x,ty-o.y)>SNIPE||!los(o.x,o.y,tx,ty,true))approach(o,a,tx,ty,SNIPE-0.6,true,true,dt);
+    else{o.path=[];o.ang=Math.atan2(ty-o.y,tx-o.x);a.t-=dt;o.fx='plant';o.fxt=0.2;
+      if(a.t<=0){o.ammo--;S.shots.push({x0:o.x,y0:o.y,x1:tx,y1:ty,e:true,t:0.3});S.noise.push({x:o.x,y:o.y,t:0.6,r:2});snd('sup');alertNear(o.x,o.y,2,o.x,o.y,null);o.cur=null;subDone(a.i);}}
+  }else if(a&&a.type==='sub'){
+    if(!o.path.length){""")
+rep("  if(sb.dark)S.dark=sb.dark;applySw(sb.sw);snd('ok');","  if(sb.dark)S.dark=sb.dark;applySw(sb.sw);if(sb.freeze!=null){var fg=S.guards[sb.freeze];fg.faces=[fg.faces[fg.faces.length-1]];fg.fi=0;}snd('ok');")
+rep("if(sb.use&&!S.subs[si])h+='<button class=\"ab\" data-a=\"sub\"","if((sb.use||sb.shoot)&&!S.subs[si]&&(!sb.by||sb.by===A.id))h+='<button class=\"ab\" data-a=\"sub\"")
+rep("if(sb.use&&!S.subs[si]&&cx>=sb.x&&cx<sb.x+(sb.w||1)&&cy>=sb.y&&cy<sb.y+(sb.h||1)){issue(A,{type:'sub',i:si});return true;}","if((sb.use||sb.shoot)&&!S.subs[si]&&cx>=sb.x&&cx<sb.x+(sb.w||1)&&cy>=sb.y&&cy<sb.y+(sb.h||1)){issue(A,{type:'sub',i:si});return true;}")
+rep("M.subs.forEach(function(sb,si){if(!sb.use||S.subs[si])return;glow('#ffd27a',10);","M.subs.forEach(function(sb,si){if(!(sb.use||sb.shoot)||S.subs[si])return;glow('#ffd27a',10);")
+rep("M.subs.forEach(function(sb,si){if(!sb.use||S.subs[si])return;p=PF(","M.subs.forEach(function(sb,si){if(!(sb.use||sb.shoot)||S.subs[si])return;p=PF(")
+rep("else if(a.type==='sub')label(M.subs[a.i].verb+' 중 '+Math.ceil(a.t)","else if(a.type==='sub')label(M.subs[a.i].shoot?'조준':M.subs[a.i].verb+' 중 '+Math.ceil(a.t)")
+# 호위 · 추가 출동
+rep("  wallCv=null;say((M.evac.note||'대피 방송.')+' 열린 곳은 '+G[S.exitI].n+'.');",
+"""  (M.evac.posts||[]).forEach(function(pt){var best=null,bd=1e9;S.guards.forEach(function(g){if(g.down||g.fixed||g.boss||used[g.id])return;var d=hyp(g.x-pt.post[0],g.y-pt.post[1]);if(d<bd){bd=d;best=g;}});
+    if(best){used[best.id]=1;best.wps=[pt.post];best.faces=[pt.face,pt.face+0.8,pt.face-0.8];best.fi=0;best.ft=best.fd=2.5;best.state='patrol';best.rush=true;best.off=3;best.meter=0;best.path=findPath(fl(best.x),fl(best.y),pt.post[0],pt.post[1])||[];}});
+  if(M.evac.escort){S.hostage={x:M.evac.escort.x+0.5,y:M.evac.escort.y+0.5,free:true};S.trail=[];}
+  wallCv=null;say((M.evac.note||'대피 방송.')+(G.length>1?' 열린 곳은 '+G[S.exitI].n+'.':' '+G[S.exitI].n+'로 데리고 나간다.'));""")
+rep("      if(inExit(r)&&hyp(h.x-r.x,h.y-r.y)<2.2)S.over={win:true};","      if(inExit(r)&&hyp(h.x-r.x,h.y-r.y)<2.2&&(!M.evac||S.ops.every(inExit)))S.over={win:true};")
+rep("  var HR=g.cam?CAMR:CRANGE*(g.tower?1.4:1);","  var HR=g.cam?CAMR:(M.evac&&M.evac.escort&&M.evac.escort.loud?RANGE:CRANGE)*(g.tower?1.4:1);")
+rep("if(a===1)shadow(f);var hi=IM['hostage.png'];ctx.globalAlpha=a;","if(a===1)shadow(f);if(M.evac&&M.evac.escort){loadImg(M.evac.escort.img);var wi=IM[M.evac.escort.img];ctx.globalAlpha=a;if(ok(wi))ctx.drawImage(wi,f[0]-12,f[1]-42,24,44);ctx.globalAlpha=1;return;}var hi=IM['hostage.png'];ctx.globalAlpha=a;")
+rep("t=(M.evac.limit?'남은 시간 '+mmss(Math.max(0,Math.ceil(M.evac.limit-(S.t-S.evT))))+' · ':'대피 방송 · ')+'열린 곳은 '+M.evac.gates[S.exitI].n;hot=true;","if(M.evac.gates.length>1||M.evac.limit){t=(M.evac.limit?'남은 시간 '+mmss(Math.max(0,Math.ceil(M.evac.limit-(S.t-S.evT))))+' · ':'대피 방송 · ')+'열린 곳은 '+M.evac.gates[S.exitI].n;hot=true;}")
+# 대화: 표정별 캐스트
+rep("DCAST={hq:{n:'지휘관',c:'#c9d2dc'},santa:{n:'산타',c:'#e0364f',side:'l'}};","DCAST={hq:{n:'지휘관',c:'#c9d2dc'},santa:{n:'산타',c:'#e0364f',side:'l'},witness:{n:'증인',c:'#ff9a3c',side:'l'}};")
+rep("img:cast[k]||(DPORT[k]?'d_'+k+'_'+(e||0)+'.webp':''),card:false};}","img:(cast[k]&&cast[k].pop?cast[k][e||0]:cast[k])||(DPORT[k]?'d_'+k+'_'+(e||0)+'.webp':''),card:false};}")
+rep("var VERSION='0.28.0';","var VERSION='0.29.0';")
+io.open(p,'w',encoding='utf8').write(s); print('ok')

diff --git a/tools/map/trace_winter_v3/s3/assets.py b/tools/map/trace_winter_v3/s3/assets.py
@@ -1,0 +1,67 @@
+import numpy as np, os, json, sys
+from PIL import Image, ImageDraw, ImageFilter, ImageEnhance
+import h
+U='/mnt/user-data/uploads/'; PUB='/home/claude/silent_six/public/'
+SH={'i':'d75f975f','w':'50081e0a','t':'5a855d3c','x':'9cab4b71'}
+def key(im,m='m'):
+    a=np.asarray(im.convert('RGB')).astype(np.float32);r,g,b=a[...,0],a[...,1],a[...,2]
+    if m=='m':
+        k=np.minimum(r,b)-g; al=np.clip(1-(k-70)/90,0,1); e=(k>25)
+        r=np.where(e,np.minimum(r,g+(r-g)*0.45),r); b=np.where(e,np.minimum(b,g+(b-g)*0.45),b)
+    else:
+        k=g-np.maximum(r,b); al=np.clip(1-(k-90)/80,0,1); g=np.where((al<1)|(k>60),np.minimum(g,np.maximum(r,b)+np.clip(k,0,60)*0.5),g)
+    return Image.fromarray(np.dstack([r,g,b,al*255]).clip(0,255).astype(np.uint8),'RGBA')
+def trim(im):
+    a=np.asarray(im)[...,3]; ys,xs=np.where(a>24); return im.crop((xs.min(),ys.min(),xs.max()+1,ys.max()+1))
+SP={}
+for s,f in SH.items():
+    im=key(Image.open(U+f+'-image.png'))
+    for i in range(6): SP[s+str(i)]=trim(im.crop(((i%3)*512,(i//3)*512,(i%3)*512+512,(i//3)*512+512)))
+W=30
+def base():
+    g=[['.']*W for _ in range(W)]
+    def R(x0,x1,y0,y1,c):
+        for y in range(y0,y1+1):
+            for x in range(x0,x1+1): g[y][x]=c
+    for i in range(W): g[0][i]=g[i][0]=g[W-1][i]=g[i][W-1]='#'
+    R(2,6,2,6,'#'); R(3,5,3,5,'.')
+    for x,y in [(6,5),(6,6),(5,6),(2,5)]: g[y][x]='.'
+    g[3][4]='X'
+    R(2,5,9,12,'J'); R(2,5,15,19,'J'); R(1,5,23,27,'H'); R(3,5,21,22,'H')
+    R(9,13,24,27,'J'); R(15,19,24,27,'J'); R(24,27,15,19,'J'); R(24,27,9,13,'J')
+    R(23,25,2,4,'H'); R(26,27,2,3,'J'); g[4][22]='T'
+    R(15,19,2,5,'J'); R(10,13,2,4,'H')
+    return g
+FIX=[('i2',18,18,2,2,'#'),('i1',14,15,2,2,'#'),('i0',10,12,2,2,'#'),('i2',12,8,2,2,'#'),('i1',17,11,2,2,'#'),
+     ('w0',20,15,1,1,'C'),('w0',9,17,1,1,'C'),('w0',16,8,1,1,'C'),('w0',8,10,1,1,'C'),('w0',21,20,1,1,'C'),
+     ('w1',12,18,2,1,'C'),('w1',19,13,2,1,'C'),('i3',15,20,2,1,'C'),('i4',21,10,1,2,'C'),('i5',8,20,3,1,'C'),
+     ('w3',11,15,1,1,'C'),('w4',17,15,1,1,'C'),('w4',14,11,1,1,'C'),('t2',19,8,2,1,'J'),('t3',7,14,1,2,'J'),('t2',15,13,2,1,'J'),
+     ('w2',7,4,1,1,'C'),('w5',14,5,1,1,'C'),('w4',20,3,1,1,'C'),('t5',21,22,1,1,'J'),('w2',6,22,1,1,'C'),('t4',9,22,3,1,'J'),
+     ('w5',22,24,1,1,'C'),('w4',25,23,1,1,'C'),('t1',26,25,2,2,'J'),('w2',28,14,1,1,'C'),('t5',23,14,1,1,'J'),('w5',1,14,1,1,'C'),('w3',7,25,1,1,'C'),
+     ('t0',20,26,2,2,'J'),('w1',15,22,2,1,'C')]
+def place(basei,sp,x,y,w,hh,dark=0.82):
+    L=h.P(x,y+hh);Rr=h.P(x+w,y);Bm=h.P(x+w,y+hh);T=h.P(x,y)
+    fw=Rr[0]-L[0]; s=SP[sp]; k=fw/s.width*1.02
+    im=s.resize((max(1,round(s.width*k)),max(1,round(s.height*k))),Image.LANCZOS)
+    r,g,b,a=im.split(); rgb=Image.merge('RGB',(r,g,b)); rgb=ImageEnhance.Brightness(rgb).enhance(dark); rgb=ImageEnhance.Color(rgb).enhance(0.8)
+    arr=np.asarray(rgb).astype(np.float32)*np.array([0.92,0.96,1.10]); im=Image.merge('RGBA',(*Image.fromarray(arr.clip(0,255).astype(np.uint8)).split(),a))
+    sh=Image.new('RGBA',basei.size,(0,0,0,0)); d=ImageDraw.Draw(sh)
+    d.polygon([(L[0]-3,L[1]),(T[0],T[1]-2),(Rr[0]+3,Rr[1]),(Bm[0],Bm[1]+3)],fill=(0,10,30,110)); basei.alpha_composite(sh.filter(ImageFilter.GaussianBlur(3)))
+    basei.alpha_composite(im,(round((L[0]+Rr[0])/2-im.width/2),round(Bm[1]+2-im.height)))
+if __name__=='__main__':
+    b=Image.open('map.png').convert('RGBA')
+    for p in sorted(FIX,key=lambda p:(p[1]+p[2]+(p[3]+p[4])/2)): place(b,*p[:5])
+    b.convert('RGB').save('bake.png'); b.convert('RGB').save(PUB+'bgw3.jpg',quality=88)
+    g=base()
+    for sp,x,y,w,hh,c in FIX:
+        for j in range(hh):
+            for i in range(w):
+                assert g[y+j][x+i]=='.',(sp,x+i,y+j,g[y+j][x+i]); g[y+j][x+i]=c
+    MAP=[''.join(r) for r in g]; json.dump({'MAP':MAP,'proj':[round(float(v),9) for v in h.H.flatten()]},open('map.json','w'))
+    print('\n'.join('%2d %s'%(i,r) for i,r in enumerate(MAP)))
+    os.makedirs('/home/claude/silent_six/tools/map/trace_winter_v3/s3/sprites',exist_ok=True)
+    for k_,v_ in SP.items():
+        v2=v_.copy(); v2.thumbnail((320,320),Image.LANCZOS); v2.save('/home/claude/silent_six/tools/map/trace_winter_v3/s3/sprites/%s.png'%k_,optimize=True)
+    wsp=SP['x0']; wsp.resize((round(wsp.width*150/wsp.height),150),Image.LANCZOS).save(PUB+'p_w3_witness.png',optimize=True)
+    for n,f in [(0,'eb7d72ba'),(1,'c91ea020')]:
+        key(Image.open(U+f+'-image.png'),'g').resize((640,960),Image.LANCZOS).save(PUB+'d_w3_witness_%d.webp'%n,quality=86,method=6)

diff --git a/tools/map/trace_winter_v3/s3/h.py b/tools/map/trace_winter_v3/s3/h.py
@@ -1,0 +1,33 @@
+import numpy as np
+from PIL import Image, ImageDraw
+def homog(src,dst):
+    A=[];b=[]
+    for (x,y),(u,v) in zip(src,dst):
+        A.append([x,y,1,0,0,0,-u*x,-u*y]);b.append(u);A.append([0,0,0,x,y,1,-v*x,-v*y]);b.append(v)
+    h=np.linalg.solve(np.array(A,float),np.array(b,float));return np.append(h,1).reshape(3,3)
+N=28
+T,L,R,B=(768,72),(12,492),(1524,490),(770,1003)
+# 격자 좌표: 벽 포함 30x30, 안쪽 1..29
+H=homog([(1,1),(1,N+1),(N+1,1),(N+1,N+1)],[T,L,R,B])
+def P(x,y):
+    p=H@np.array([x,y,1.0]);return (p[0]/p[2],p[1]/p[2])
+def overlay(out,box=None,s=1,lab=True):
+    im=Image.open('/tmp/s3/map.png').convert('RGB')
+    if box: im=im.crop(box)
+    ox,oy=(box[0],box[1]) if box else (0,0)
+    im=im.resize((im.width*s,im.height*s),Image.LANCZOS);d=ImageDraw.Draw(im)
+    def Q(x,y):
+        a,b=P(x,y);return ((a-ox)*s,(b-oy)*s)
+    for i in range(1,N+2):
+        c=(255,255,0) if (i-1)%7==0 else (0,255,255)
+        d.line([Q(i,1),Q(i,N+1)],fill=c,width=1);d.line([Q(1,i),Q(N+1,i)],fill=c,width=1)
+    if lab:
+        for x in range(1,N+1):
+            for y in range(1,N+1):
+                if (x%2==1 and y%2==1) or s>1:
+                    a,b=Q(x+.5,y+.5)
+                    if 0<=a<im.width and 0<=b<im.height: d.text((a-7,b-5),'%d,%d'%(x,y) if s>1 else '%d'%x if y==1 or True else '',fill=(255,255,255))
+    im.save(out)
+if __name__=='__main__':
+    overlay('/tmp/s3/ov.png',lab=False)
+    print(np.round(H,6).tolist())

diff --git a/docs/CHANGELOG.md b/docs/CHANGELOG.md
@@ -1,5 +1,14 @@
 # 변경 기록
 
+## v0.29.0 — 2026-11-20
+- 블러디 크리스마스 3판 "얼음 위의 선물"을 v3 설계로 교체. 30×30 격자 호수, 닥 + 바이퍼, 경비 8명(탐조등 포함).
+- 가운데 얼음판에 낚시 오두막 5채와 낮은 엄폐 16개를 놓았다. 오두막만 탐조등을 가린다. 눈보라(26초마다 9초) 때 오두막에서 오두막으로 건넌다.
+- 중간 목표 2개(순서 자유): 바이퍼가 부두의 안테나를 저격(탐조등이 한 방향으로 멈춘다), 닥이 얼음 한가운데 붉은 오두막에서 구급 가방을 챙긴다.
+- 증인을 치료하면 증인이 닥을 따라온다. 증인은 서 있는 시야 거리에서 들킨다. 경비 1명이 보트하우스 앞으로 달려온다.
+- 증인 대화용 2장, 맵용 1장 적용. 대화 4곳과 요원 표정 적용.
+- 엔진: 저격으로 끝내는 중간 목표(`shoot`), 요원 지정(`by`), 목표 뒤 호위(`evac.escort`), 추가 출동(`evac.posts`), 표정별 대화 그림.
+- 점검(`STAGE=3 tools/check_w1.js`): 대기 60초, 안테나, 구급 가방, 치료 → 호위 이탈. EASY · POWER · HARD 4 / 4, HELL 3 / 4(호위 이탈을 자동 탐색으로 못 풀었다).
+
 ## v0.28.0 — 2026-11-20
 - 블러디 크리스마스 2판 "화차 44호"를 v3 설계로 교체. 30×30 격자 조차장, 브릭 + 글리치, 경비 9명(조명탑 2기 포함).
 - 중간 목표 2개(순서 자유): 신호소의 선로 전환기, 사무소의 화물 대장. 끝내야 44호에 폭약을 붙일 수 있다.

diff --git a/docs/WINTER_V3.md b/docs/WINTER_V3.md
@@ -1,6 +1,6 @@
 # 블러디 크리스마스 재설계안 v3 — 잠입의 재미 기준
 
-상태: **1판(v0.27.0) · 2판(v0.28.0) 적용**. 3~5판은 아직 v2 그대로다. 1판 제작 묶음은 `tools/packs/winter_v3_s1/`, 맵 분석과 엄폐물 배치는 `tools/map/trace_winter_v3/`, 점검은 `tools/check_w1.js`.
+상태: **1판(v0.27.0) · 2판(v0.28.0) · 3판(v0.29.0) 적용**. 4 · 5판은 아직 v2 그대로다. 1판 제작 묶음은 `tools/packs/winter_v3_s1/`, 맵 분석과 엄폐물 배치는 `tools/map/trace_winter_v3/`, 점검은 `tools/check_w1.js`.
 
 ## 1. 결론
 
